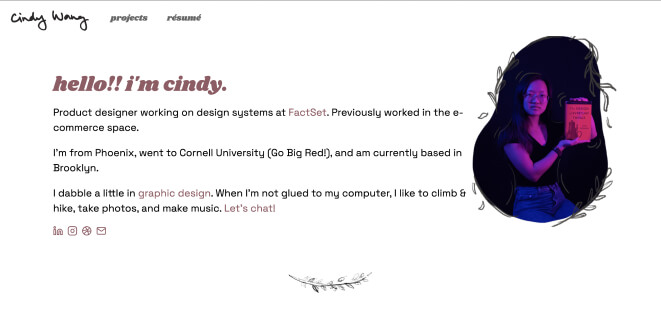
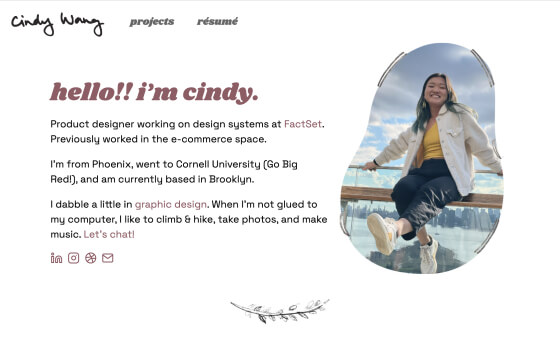
hero image update

Changed region(s): [[0.0607, 0.1161, 0.9411, 0.7839], [0.0, 0.0, 1.0, 0.1161], [0.3946, 0.8419, 0.5768, 0.9581]]

diff --git a/css/style.css b/css/style.css
@@ -234,12 +234,13 @@ footer {
     .grass {
         float: right;
         z-index: -5;
+        margin: -1rem 5rem 1rem 1rem;
         margin-right: 60px;
-        margin-top: -30px;
-
+        margin-top: -1rem;
+        margin-left: 1rem;
     }
         .grass img {
-            width: 360px;
+            width: 336px;
         }
 
 #back img{
@@ -353,7 +354,6 @@ footer {
 
 .hellobox {
     padding: 2rem 3rem;
-    width: 65%;
     max-width: 1200px;
     min-height: 40vh;
 }

diff --git a/index.html b/index.html
@@ -43,7 +43,7 @@
 
 <div class="container fade-in">
     <div class="grass unselectable">
-        <img src="images/me.png">
+        <img src="images/me.jpg">
     </div>
     <div class="hellobox">
 
